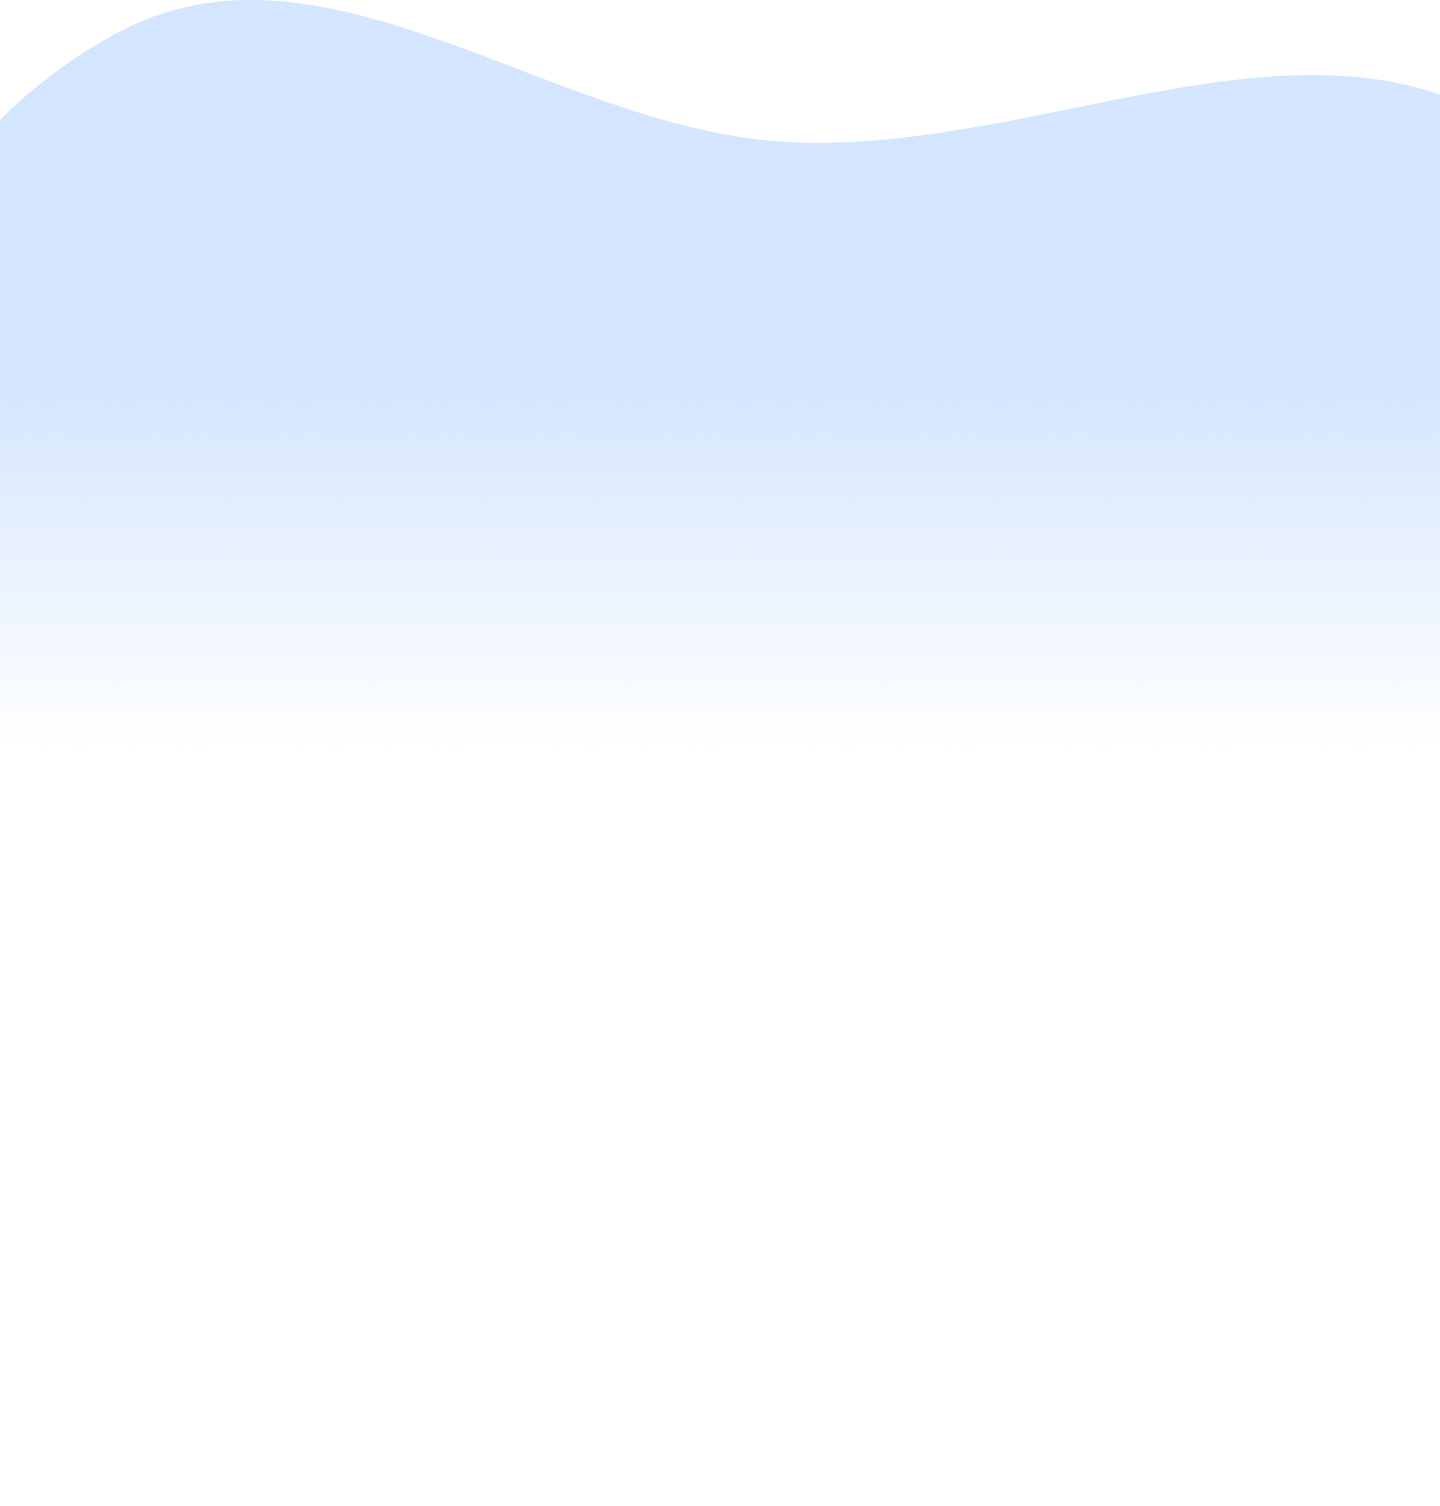
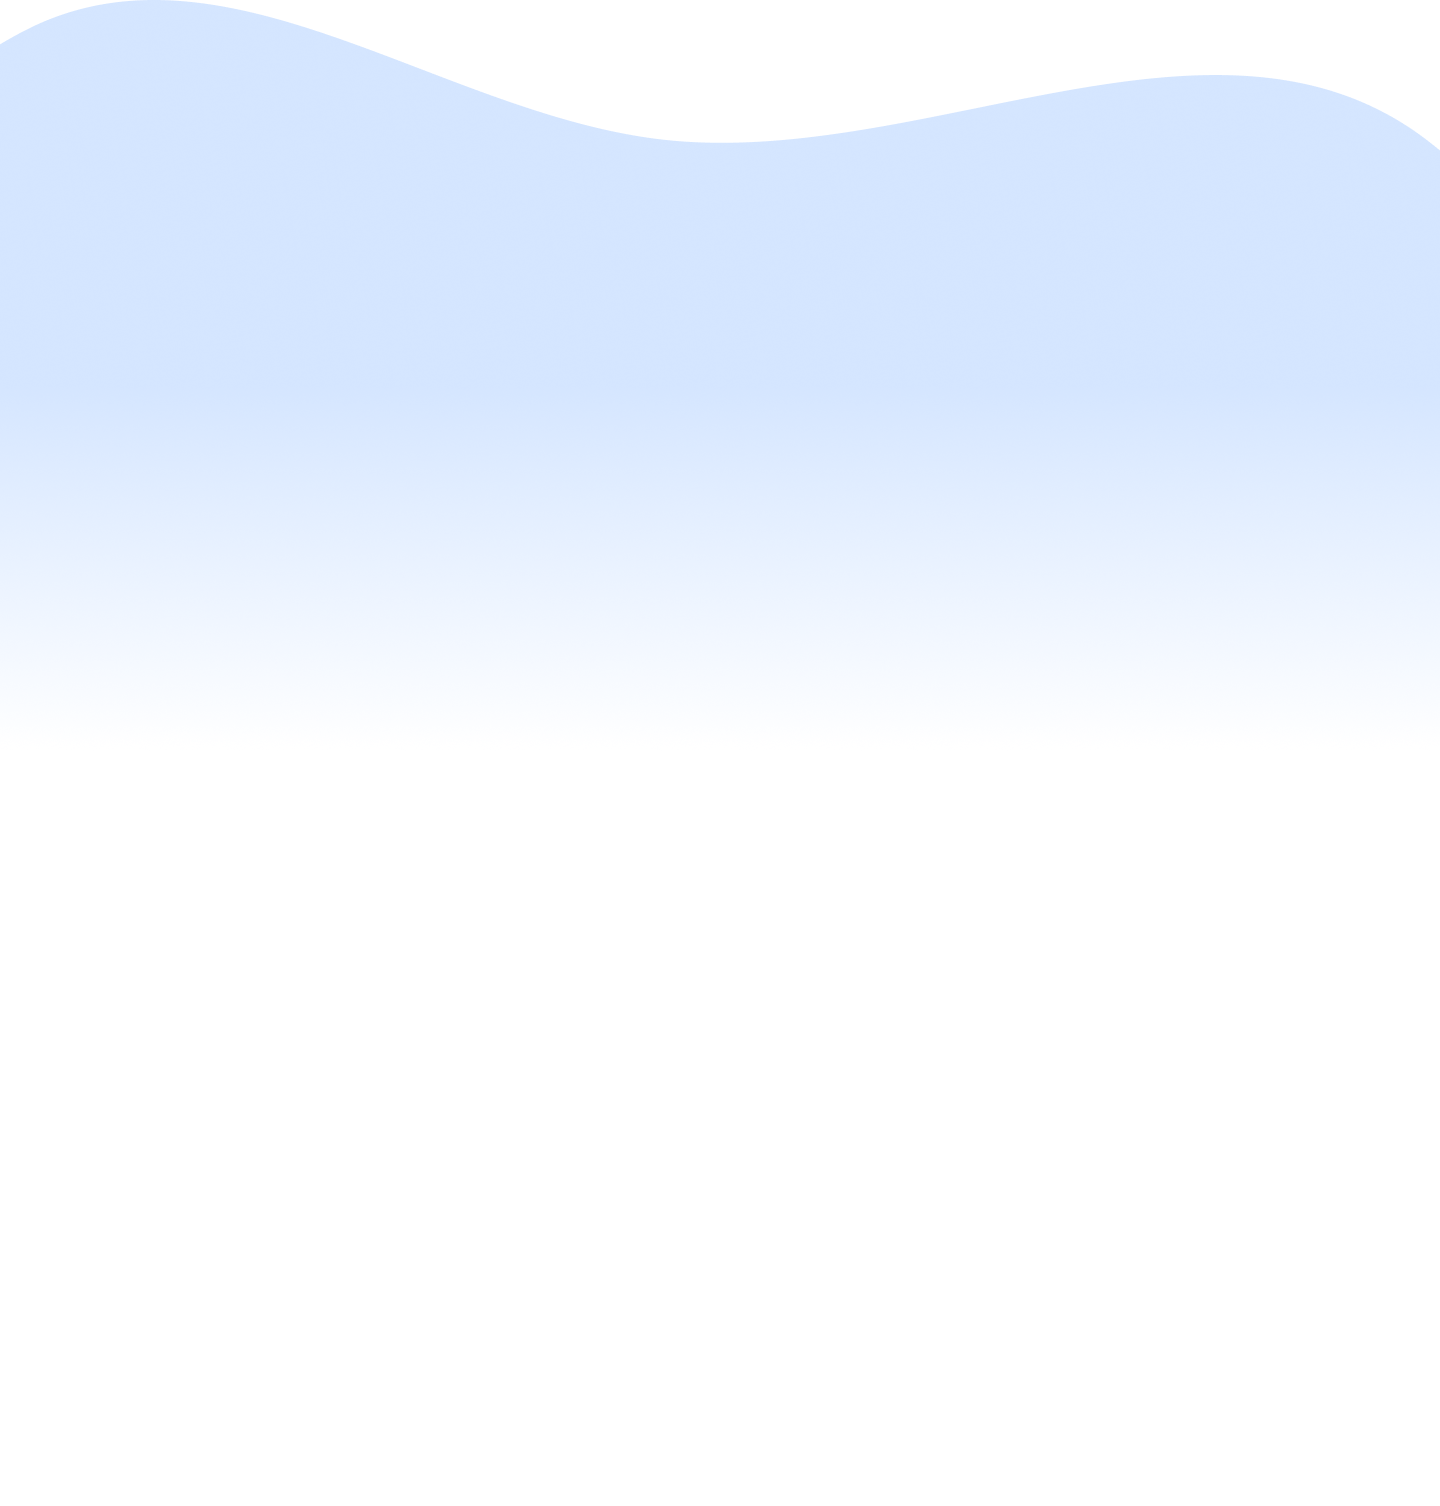
fix(css): фідбек препода — фони, волна why-us, footer-nav, форма/карта
- hero/why-us фон на всю ширину; why-us::before left:0, width:100%,
  прибрано transform, background-size 100% auto (волна не сплющена)
- прибрано зайвий z-index у .why-us-bg
- footer background-size: contain
- заголовок Hero на коректному шрифті Play 700 (--font-display)
- форма та карта однакової висоти (481px)

diff --git a/css/main.css b/css/main.css
@@ -280,6 +280,7 @@ h3 {
     ), url('../images/hero_background.png');
     background-repeat: no-repeat;
     background-position: center top;
+    background-size: cover;
     pointer-events: none;
     z-index: -2;
 }
@@ -409,6 +410,8 @@ header .container {
    7. Секція «Про нас» (#about)
    ========================================================================== */
 .about-section {
+    position: relative;
+    z-index: 1;
     margin-bottom: 40px;
     padding-top: 64px;
     background-color: #fff;
@@ -437,6 +440,7 @@ header .container {
 
 .about-section-images {
     position: relative;
+    z-index: 2;
     display: flex;
     flex-direction: column;
     gap: 40px;
@@ -510,18 +514,16 @@ header .container {
 .why-us-bg::before {
     content: '';
     position: absolute;
-    top: -75px;
-    right: 0;
-    bottom: 0;
+    top: -60px;
     left: 0;
-    width: min(100%, 1440px);
-    margin-inline: auto;
+    width: 100%;
+    bottom: 0;
     background-color: #fff;
     background-image: url('../images/background1.png');
     background-repeat: no-repeat;
     background-size: 100% auto;
     background-position: center top;
-    pointer-events: none;
+    z-index: -1;
 }
 
 .why-us-section {
@@ -594,6 +596,8 @@ header .container {
    9. Секція «Наші процедури» (#services)
    ========================================================================== */
 .services-section {
+    position: relative;
+    z-index: 1;
     margin-bottom: 96px;
 }
 
@@ -783,17 +787,20 @@ header .container {
 .contact-section-wrapper {
     display: flex;
     justify-content: center;
-    align-items: center;
+    align-items: stretch;
     gap: 40px;
 }
 
 .contact-section-form {
     display: flex;
     flex-direction: column;
+    justify-content: center;
     gap: 16px;
     width: 423px;
+    height: 481px;
     padding: 48px 56px;
     border-radius: 32px;
+    box-sizing: border-box;
     background-color: var(--secondary-color);
     background-image: url('../images/modal-background.png');
     background-repeat: no-repeat;
@@ -866,7 +873,7 @@ footer {
     background-image: url('../images/footer-background.png');
     background-repeat: no-repeat;
     background-size: contain;
-    background-position: center right;
+    background-position: right center;
 }
 
 .footer-container {
@@ -878,7 +885,6 @@ footer {
 
 .footer-nav-list {
     display: flex;
-    align-items: center;
     gap: 16px;
     flex-direction: column;
 }

diff --git a/index.html b/index.html
@@ -197,9 +197,7 @@
         <div class="contact-section-wrapper">
         <iframe
           src="https://www.google.com/maps/embed?pb=!1m18!1m12!1m3!1d2540.9400613933917!2d30.5181289!3d50.4422171!2m3!1f0!2f0!3f0!3m2!1i1024!2i768!4f13.1!3m3!1m2!1s0x40d4cef8b5f6338d%3A0x25c7f06ad686451c!2sTarasa%20Shevchenko%20Blvd%2C%205%2C%20Kyiv%2C%2002000!5e0!3m2!1sen!2sua!4v1780245368849!5m2!1sen!2sua"
-          width="605"
-          height="481"
-          allowfullscreen
+          allowfullscreen=""
           loading="lazy"
           referrerpolicy="no-referrer-when-downgrade"
           title="Карта розташування клініки"
